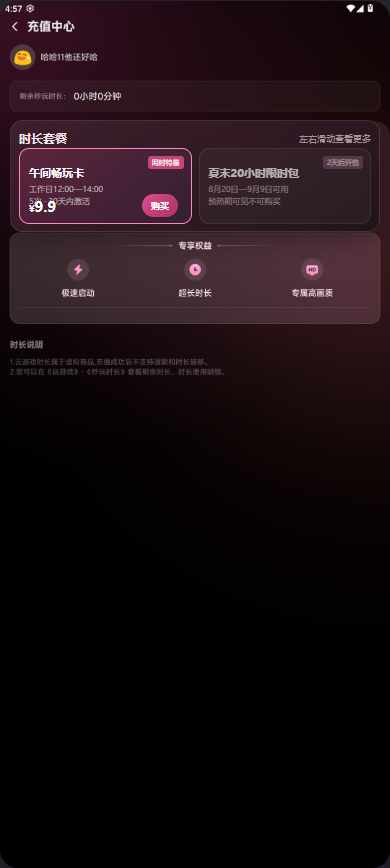
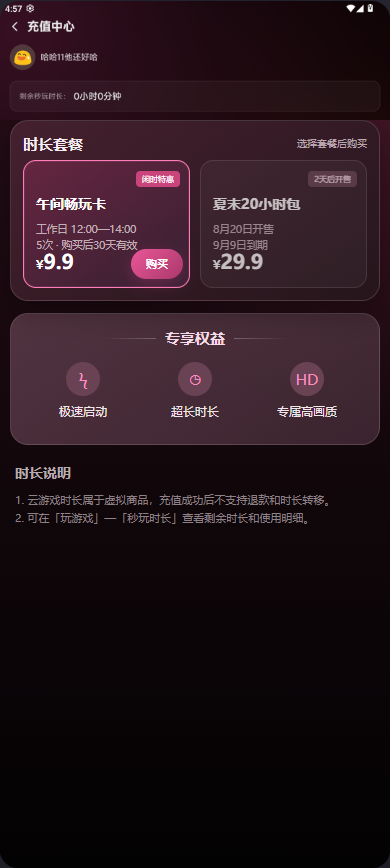
fix: rebuild readable portrait recharge layout

Changed region(s): [[0.0, 0.1555, 0.9846, 0.6221], [0.9538, 0.1244, 1.0, 0.1555]]

diff --git a/demos/云游戏/云游戏时段次卡与限时套餐demo.html b/demos/云游戏/云游戏时段次卡与限时套餐demo.html
@@ -58,12 +58,18 @@ button{cursor:pointer}
 /* V6.1.1 真实页面复刻层 */
 #capture-c-recharge{height:867px;border-radius:18px;background:#090509 url('./assets/cloud-time-pack-v611/15-portrait-recharge.png') center/100% 100% no-repeat}
 #capture-c-recharge>.statusbar,#capture-c-recharge>.app-header,#capture-c-recharge>.screen-scroll,#capture-c-recharge>.pay-bar{display:none}
-.v611-product-area{position:absolute;z-index:12;left:10px;right:10px;top:119px;height:112px;padding:7px 8px 8px;border-radius:13px;background:linear-gradient(145deg,rgba(65,31,46,.97),rgba(31,20,25,.97));border:1px solid rgba(255,255,255,.11);box-shadow:0 10px 24px rgba(0,0,0,.28)}
-.v611-product-head{height:20px;display:flex;align-items:center;font-size:11px;color:#f4e8ed}.v611-product-head strong{font-size:12px}.v611-product-head span{margin-left:auto;color:#a9949d;font-size:9px}
-.v611-product-row{display:grid;grid-template-columns:1fr 1fr;gap:7px;height:76px}
-.v611-product{position:relative;border:1px solid rgba(255,255,255,.12);border-radius:10px;background:rgba(255,255,255,.055);color:#fff;padding:8px 9px;text-align:left}.v611-product.selected{border-color:#ff8ac0;background:linear-gradient(135deg,rgba(157,52,97,.32),rgba(65,45,79,.35))}.v611-product.disabled{opacity:.66;cursor:default}
-.v611-product h3{font-size:11px;margin-bottom:3px}.v611-product p{font-size:8px;color:#b9aab1;line-height:12px}.v611-product .mini-price{position:absolute;right:8px;bottom:7px;font-family:var(--number);font-size:14px;font-weight:700}.v611-product .mini-price em{font-size:9px;font-style:normal}.v611-product .mini-badge{position:absolute;right:7px;top:7px;padding:2px 4px;border-radius:3px;background:#c54479;color:#fff;font-size:7px}.v611-product.disabled .mini-badge{background:#6b4c5a;color:#edcedb}
-.v611-product .mini-price{left:9px;right:auto}.v611-buy{position:absolute;left:131px;bottom:14px;height:23px;padding:0 9px;border:0;border-radius:12px;background:linear-gradient(135deg,#de4c8c,#a73365);color:#fff;font-size:9px;font-weight:600}
+.v611-recharge-extension{position:absolute;z-index:11;left:0;right:0;top:119px;bottom:0;padding:0 10px 28px;overflow-y:auto;scrollbar-width:none;background:radial-gradient(circle at 100% 0,rgba(91,29,51,.48),transparent 36%),linear-gradient(180deg,#230b14 0,#11070b 48%,#030203 100%)}
+.v611-recharge-extension::-webkit-scrollbar{display:none}
+.v611-product-area{position:relative;padding:13px 12px 12px;border-radius:18px;background:linear-gradient(145deg,rgba(69,33,47,.98),rgba(37,22,28,.98));border:1px solid rgba(255,255,255,.13);box-shadow:0 12px 28px rgba(0,0,0,.28)}
+.v611-product-head{height:26px;display:flex;align-items:flex-start;color:#f8edf2}.v611-product-head strong{font-size:15px;line-height:20px}.v611-product-head span{margin-left:auto;color:#b9a6af;font-size:10px;line-height:18px}
+.v611-product-row{display:grid;grid-template-columns:1fr 1fr;gap:10px;height:128px}
+.v611-product{position:relative;border:1px solid rgba(255,255,255,.14);border-radius:13px;background:rgba(255,255,255,.055);color:#fff;padding:13px 12px;text-align:left}.v611-product.selected{border-color:#ff7eb9;background:linear-gradient(145deg,rgba(160,48,96,.38),rgba(69,44,80,.36));box-shadow:inset 0 0 0 1px rgba(255,126,185,.12)}.v611-product.disabled{opacity:.72;cursor:default}
+.v611-product h3{max-width:112px;font-size:14px;line-height:20px;margin-bottom:7px}.v611-product p{font-size:10.5px;color:#c2afb8;line-height:16px}.v611-product .mini-price{position:absolute;left:12px;bottom:13px;font-family:var(--number);font-size:20px;font-weight:700}.v611-product .mini-price em{font-size:12px;font-style:normal}.v611-product .mini-badge{position:absolute;right:9px;top:10px;padding:3px 6px;border-radius:4px;background:#c8447b;color:#fff;font-size:8px}.v611-product.disabled .mini-badge{background:#694856;color:#f1d5df}
+.v611-buy{position:absolute;left:120px;bottom:21px;width:52px;height:30px;border:0;border-radius:16px;background:linear-gradient(135deg,#e95798,#aa386b);box-shadow:0 5px 15px rgba(210,58,124,.28);color:#fff;font-size:11px;font-weight:650}
+.v611-benefits{height:132px;margin-top:12px;padding:14px 16px 13px;border-radius:18px;background:linear-gradient(145deg,rgba(85,54,67,.94),rgba(61,38,48,.94));border:1px solid rgba(255,255,255,.12)}
+.v611-benefits-title{height:27px;display:flex;align-items:flex-start;justify-content:center;color:#f6dfe9;font-size:15px;font-weight:650}.v611-benefits-title:before,.v611-benefits-title:after{content:'';width:54px;height:1px;margin:10px 9px 0;background:linear-gradient(90deg,transparent,rgba(255,255,255,.26))}.v611-benefits-title:after{transform:rotate(180deg)}
+.v611-benefit-row{height:72px;display:grid;grid-template-columns:repeat(3,1fr);align-items:center}.v611-benefit{text-align:center;color:#f1e7eb;font-size:12px}.v611-benefit i{width:34px;height:34px;margin:0 auto 7px;border-radius:50%;display:grid;place-items:center;background:#694253;color:#ff8dc0;font-style:normal;font-size:15px}
+.v611-time-note{padding:18px 5px 0;color:#8f8187}.v611-time-note h3{font-size:14px;color:#b9aab0;margin-bottom:9px}.v611-time-note p{font-size:11px;line-height:18px}
 #capture-c-activation{height:867px;border-radius:18px}
 #capture-c-activation .game-page{background:#080709 url('./assets/cloud-time-pack-v611/10-portrait-game-detail.png') center/100% 100% no-repeat}
 #capture-c-activation .game-page>.statusbar,#capture-c-activation .game-page>.game-cover-art,#capture-c-activation .game-page>.app-header,#capture-c-activation .game-page>.game-info,#capture-c-activation .game-page>.game-actions{visibility:hidden}
@@ -135,13 +141,20 @@ button{cursor:pointer}
         <div class="notice-row"><span class="notice-icon">ⓘ</span><span>时段次卡需在指定时段点击秒玩后激活；限时时长仅在标注的使用期内可用。</span></div>
       </div>
       <div class="pay-bar"><button class="pay-btn" id="rechargePay" onclick="paySelected()">确认支付 ¥9.90</button></div>
-      <div class="v611-product-area">
-        <div class="v611-product-head"><strong>时长套餐</strong><span>左右滑动查看更多</span></div>
-        <div class="v611-product-row">
-          <button class="v611-product selected" id="portraitSlotSku"><span class="mini-badge">闲时特惠</span><h3>午间畅玩卡</h3><p>工作日12:00—14:00<br>5次 · 30天内激活</p><span class="mini-price"><em>¥</em>9.9</span></button>
-          <button class="v611-product disabled" disabled><span class="mini-badge">2天后开售</span><h3>夏末20小时限时包</h3><p>8月20日—9月9日可用<br>预热期可见不可购买</p></button>
+      <div class="v611-recharge-extension">
+        <div class="v611-product-area">
+          <div class="v611-product-head"><strong>时长套餐</strong><span>选择套餐后购买</span></div>
+          <div class="v611-product-row">
+            <button class="v611-product selected" id="portraitSlotSku"><span class="mini-badge">闲时特惠</span><h3>午间畅玩卡</h3><p>工作日 12:00—14:00<br>5次 · 购买后30天有效</p><span class="mini-price"><em>¥</em>9.9</span></button>
+            <button class="v611-product disabled" disabled><span class="mini-badge">2天后开售</span><h3>夏末20小时包</h3><p>8月20日开售<br>9月9日到期</p><span class="mini-price"><em>¥</em>29.9</span></button>
+          </div>
+          <button class="v611-buy" onclick="payPortraitSlot()">购买</button>
         </div>
-        <button class="v611-buy" onclick="payPortraitSlot()">购买</button>
+        <div class="v611-benefits">
+          <div class="v611-benefits-title">专享权益</div>
+          <div class="v611-benefit-row"><div class="v611-benefit"><i>ϟ</i>极速启动</div><div class="v611-benefit"><i>◷</i>超长时长</div><div class="v611-benefit"><i>HD</i>专属高画质</div></div>
+        </div>
+        <div class="v611-time-note"><h3>时长说明</h3><p>1. 云游戏时长属于虚拟商品，充值成功后不支持退款和时长转移。<br>2. 可在「玩游戏」—「秒玩时长」查看剩余时长和使用明细。</p></div>
       </div>
       <div class="toast" id="rechargeToast">支付成功，午间畅玩卡已到账</div>
     </div>
